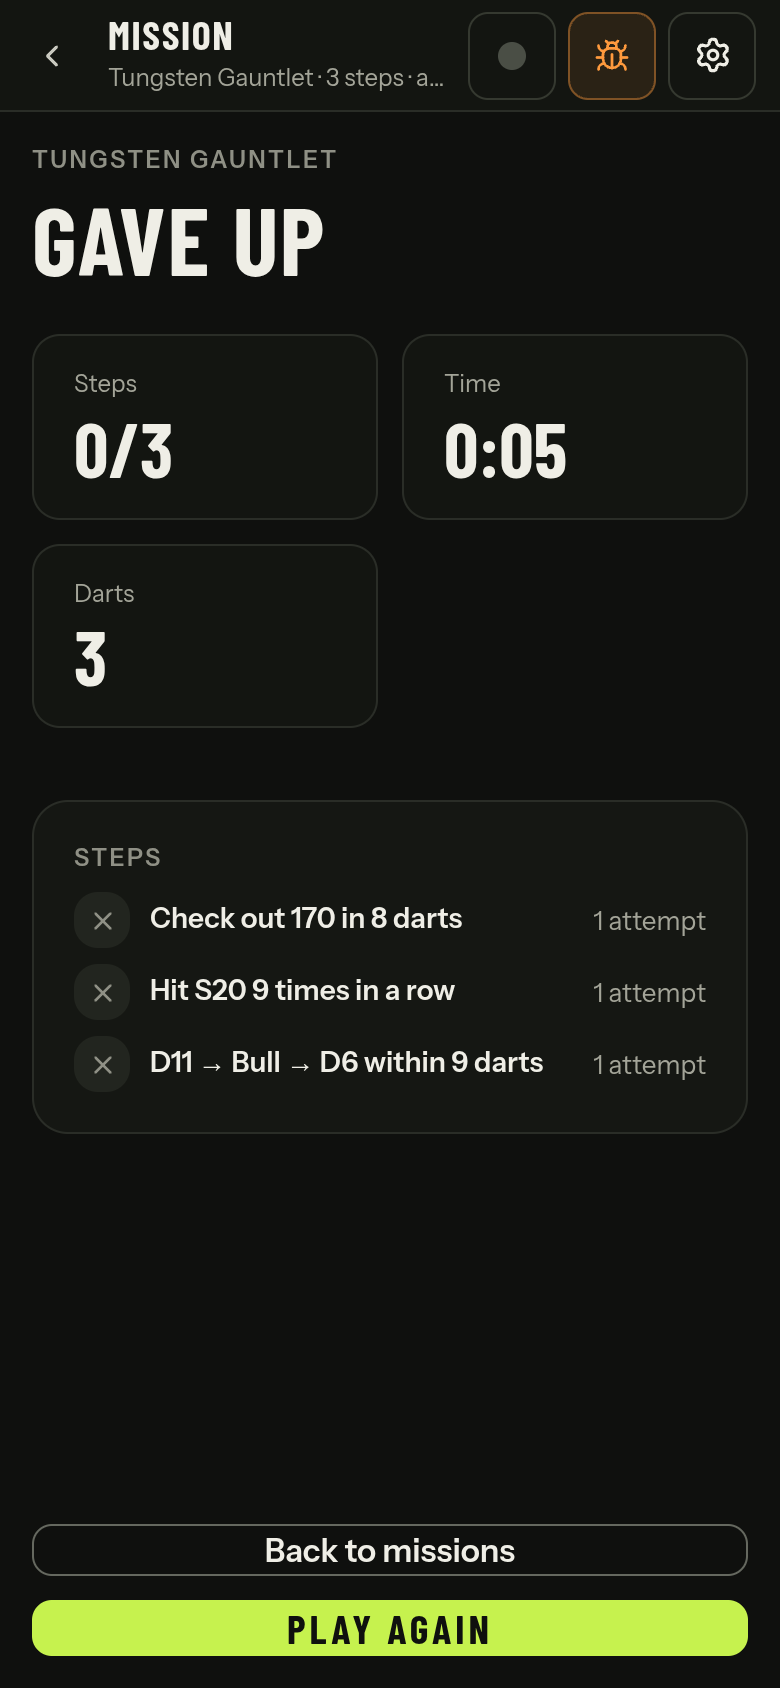
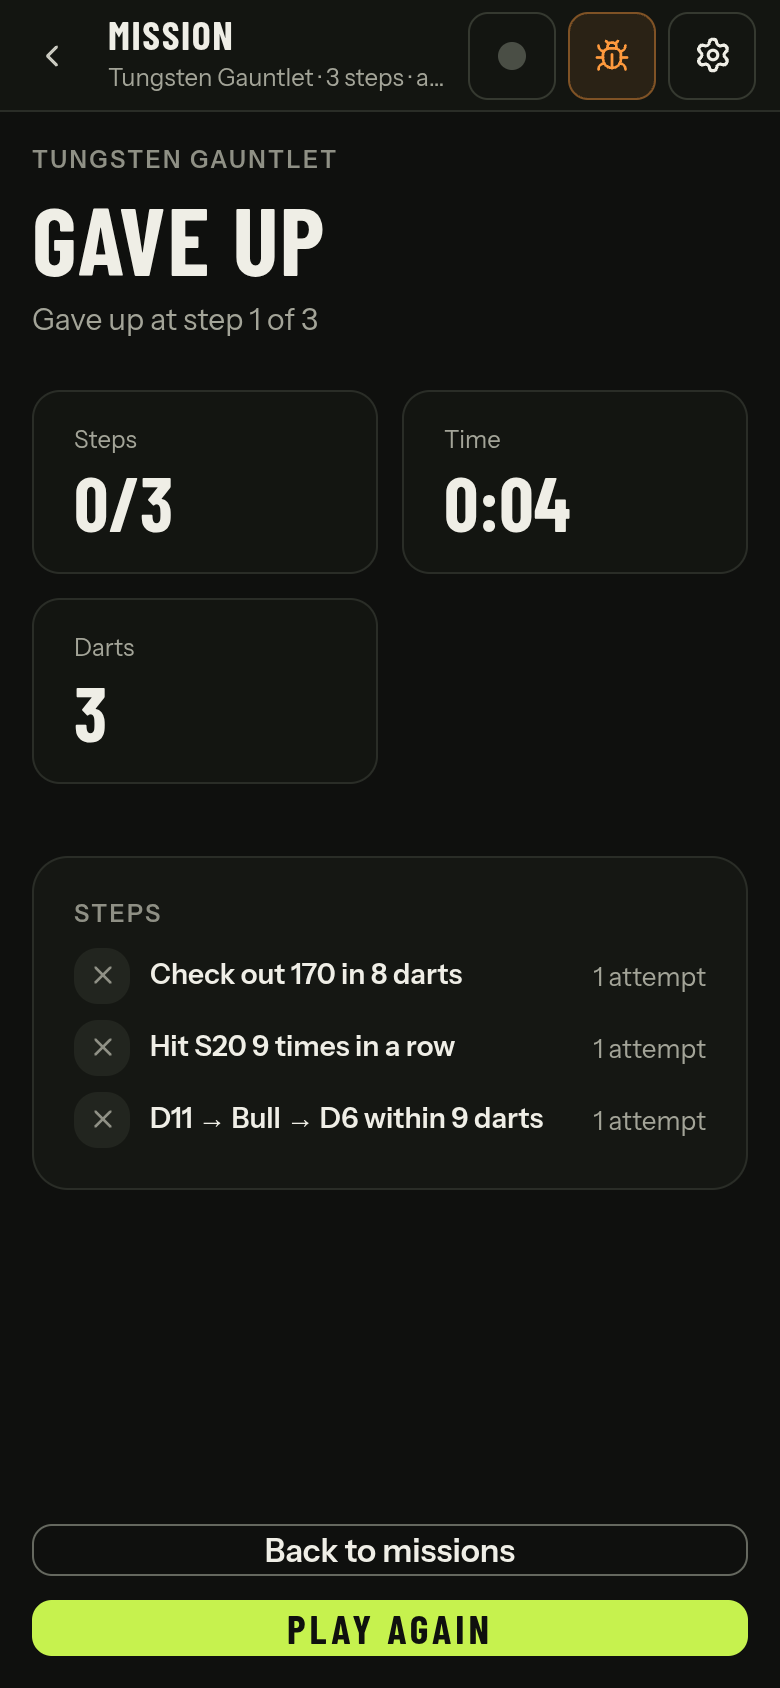
fix(missions): say a mission was tried when no run completed
The cards only knew completed runs, so a mission played and failed
still said Not tried. Each card now carries tries, the viewer's
finished games of it (test runs left out), and says Not completed with
Tried 2× until a run completes. The result of a failed run says where
it ended: Time ran out at step 2 of 3.

diff --git a/backend/frontend/src/lib/missions/view.ts b/backend/frontend/src/lib/missions/view.ts
@@ -78,12 +78,17 @@ export const authorLabel = (card: Pick<MissionCard, 'author' | 'official'>, view
 export const authorName = (card: Pick<MissionCard, 'author' | 'official'>): string =>
   card.official ? 'Dartcade' : (card.author?.name ?? 'Player')
 
-/** The card's Your best and Friends' best: a mission of your own you never finished shows a dash, not "Not tried". */
-export function bests(card: MissionCard, viewerId: string | null): { yours: string; friends: string } {
+/**
+ * The card's Your best and Friends' best. Without a completed run Your best says whether you tried
+ * (`tried`: how often); a mission of your own you never played shows a dash, not "Not tried".
+ */
+export function bests(card: MissionCard, viewerId: string | null): { yours: string; tried: string | null; friends: string } {
   const rankBy = card.mission.rankBy
   const own = card.author?.id === viewerId
+  const untried = own ? '—' : 'Not tried'
   return {
-    yours: card.yourBest ? bestValue(rankBy, card.yourBest) : own ? '—' : 'Not tried',
+    yours: card.yourBest ? bestValue(rankBy, card.yourBest) : card.tries > 0 ? 'Not completed' : untried,
+    tried: !card.yourBest && card.tries > 0 ? `Tried ${card.tries}×` : null,
     friends: card.friendsBest ? bestValue(rankBy, card.friendsBest) : '—',
   }
 }
@@ -216,6 +221,13 @@ export function runLine(game: Pick<MissionGame, 'mission'>, run: MissionRun): st
 // ── The result ────────────────────────────────────────────────────────────
 
 export type ResultRow = { seat: number; name: string; place: number | null; steps: string; time: string; darts: number; outcome: string }
+
+/** What happened to a run that did not complete: "Time ran out at step 2 of 3"; null for one that completed or still plays. */
+export function outcomeLine(game: Pick<MissionGame, 'mission'>, run: Pick<MissionRun, 'status' | 'failure' | 'active'>): string | null {
+  if (run.status !== 'failed') return null
+  const where = `at step ${run.active + 1} of ${game.mission.steps.length}`
+  return run.failure === 'time' ? `Time ran out ${where}` : `Gave up ${where}`
+}
 
 const OUTCOME = { completed: 'Completed', time: 'Time ran out', gave_up: 'Gave up', playing: 'Not finished' } as const
 

diff --git a/backend/src/db/missions.ts b/backend/src/db/missions.ts
@@ -97,6 +97,8 @@ export type MissionCard = MissionRow & {
   yourBest: Best | null
   /** The best of the viewer's friends. */
   friendsBest: Best | null
+  /** The viewer's finished games of it (completed, failed, out of time or given up), test runs left out. */
+  tries: number
 }
 
 const LIST_LIMIT = 100
@@ -129,16 +131,29 @@ export async function listMissions(
 /** Each card's best of the viewer and of the viewer's friends. */
 async function withBests(db: Kysely<Database>, v: MissionViewer, missions: (MissionRow & { plays: number })[]): Promise<MissionCard[]> {
   if (missions.length === 0) return []
-  const bests = await bestsOf(
-    db,
-    missions.map(m => m.id),
-    [v.id, ...v.friendIds],
-  )
+  const ids = missions.map(m => m.id)
+  const [bests, tries] = await Promise.all([bestsOf(db, ids, [v.id, ...v.friendIds]), triesOf(db, ids, v.id)])
   return missions.map(m => {
     const mine = bests.filter(b => b.missionId === m.id)
     const friends = mine.filter(b => b.userId !== v.id).sort((a, b) => compareRuns(m.mission.rankBy, a, b))
-    return { ...m, yourBest: mine.find(b => b.userId === v.id) ?? null, friendsBest: friends[0] ?? null }
+    return { ...m, yourBest: mine.find(b => b.userId === v.id) ?? null, friendsBest: friends[0] ?? null, tries: tries.get(m.id) ?? 0 }
   })
+}
+
+// How often the user finished a game of each mission: the bests keep only completions
+async function triesOf(db: Kysely<Database>, missionIds: string[], userId: string): Promise<Map<string, number>> {
+  const found = await db
+    .selectFrom('game_sessions as g')
+    .innerJoin('game_players as p', 'p.session_id', 'g.id')
+    .select([sql<string>`g.config ->> 'missionId'`.as('missionId'), sql<number>`count(DISTINCT g.id)::int`.as('n')])
+    .where('g.game_id', '=', 'mission')
+    .where('g.status', '=', 'finished')
+    .where(sql<boolean>`g.config ->> 'test' = 'false'`)
+    .where(sql<boolean>`g.config ->> 'missionId' = ANY(${missionIds}::text[])`)
+    .where('p.user_id', '=', userId)
+    .groupBy(sql`g.config ->> 'missionId'`)
+    .execute()
+  return new Map(found.map(r => [r.missionId, r.n]))
 }
 
 async function bestsOf(db: Kysely<Database>, missionIds: string[], userIds: string[]): Promise<(Best & { missionId: string })[]> {

diff --git a/backend/frontend/src/lib/missions/view.test.ts b/backend/frontend/src/lib/missions/view.test.ts
@@ -11,6 +11,7 @@ import {
   fmtClock,
   highscoreRank,
   liveElapsed,
+  outcomeLine,
   personalBest,
   resultRows,
   runLine,
@@ -82,6 +83,7 @@ const card = (o: Partial<MissionCard> = {}): MissionCard => ({
   plays: 3,
   yourBest: null,
   friendsBest: null,
+  tries: 0,
   hidden: null,
   canEdit: false,
   createdAt: '2026-11-20T10:00:00Z',
@@ -102,9 +104,11 @@ describe('the list', () => {
     expect(cardPills(card({ official: true, mission: sprint })).map(p => p.label)).toEqual(['1 step', 'Official'])
   })
 
-  it('bests: a time, darts for a darts race, Not tried, and a dash on your own untried mission', () => {
+  it('bests: a time, darts for a darts race, tried but not completed, Not tried, and a dash on your own untried mission', () => {
     const best = { userId: 'me', name: 'Me', timeMs: 462_000, darts: 38, achievedAt: '2026-11-21T10:00:00Z' }
-    expect(bests(card({ yourBest: best }), 'me')).toEqual({ yours: '7:42', friends: '—' })
+    expect(bests(card({ yourBest: best, tries: 4 }), 'me')).toEqual({ yours: '7:42', tried: null, friends: '—' })
+    expect(bests(card({ tries: 2 }), 'me')).toEqual({ yours: 'Not completed', tried: 'Tried 2×', friends: '—' })
+    expect(bests(card({ tries: 1, author: { id: 'me', name: 'Me' } }), 'me').yours).toBe('Not completed')
     expect(bests(card({ yourBest: best, mission: { ...mission, rankBy: 'darts' } }), 'me').yours).toBe('38 darts')
     expect(bests(card(), 'me').yours).toBe('Not tried')
     expect(bests(card({ author: { id: 'me', name: 'Me' } }), 'me').yours).toBe('—')
@@ -179,6 +183,12 @@ describe('the play screen', () => {
 })
 
 describe('the result', () => {
+  it('says where a run that did not complete ended', () => {
+    expect(outcomeLine({ mission }, playing({ status: 'failed', failure: 'time', active: 1 }))).toBe('Time ran out at step 2 of 3')
+    expect(outcomeLine({ mission }, playing({ status: 'failed', failure: 'gave_up', active: 0 }))).toBe('Gave up at step 1 of 3')
+    expect(outcomeLine({ mission }, playing({ status: 'completed' }))).toBeNull()
+  })
+
   it('rows by place, each with its outcome', () => {
     const game = {
       mission,

diff --git a/backend/src/api/missions.test.ts b/backend/src/api/missions.test.ts
@@ -396,4 +396,53 @@ describe.skipIf(!process.env.TEST_DATABASE_URL)('missions API', { timeout: 30_00
     const card = (await call('GET', `/api/missions/${id}`, 'owner')).json()
     expect(card).toMatchObject({ yourBest: null, friendsBest: { name: 'Fred', darts: 30 } })
   })
+
+  it("counts the viewer's finished games of a mission as tries, completed or not; never a test run, an unfinished game or someone else's", async () => {
+    const id = await own('public')
+    const games: [string, string, 'finished' | 'active', boolean][] = [
+      ['t1', 'stranger', 'finished', false],
+      ['t2', 'stranger', 'finished', false],
+      ['t3', 'stranger', 'active', false],
+      ['t4', 'stranger', 'finished', true],
+      ['t5', 'friend', 'finished', false],
+    ]
+    for (const [gid, user, status, test] of games) {
+      await db
+        .insertInto('game_sessions')
+        .values({
+          id: gid,
+          game_id: 'mission',
+          owner_user_id: user,
+          config: JSON.stringify({ missionId: id, test }),
+          status,
+          finished_at: status === 'finished' ? new Date() : null,
+        })
+        .execute()
+      await db
+        .insertInto('game_players')
+        .values({
+          session_id: gid,
+          seat: 0,
+          name: user,
+          user_id: user,
+          placement: 1,
+          stats: '{}',
+          controller_user_id: user,
+          board_db_id: null,
+        })
+        .execute()
+    }
+    const card = (await call('GET', `/api/missions/${id}`, 'stranger')).json()
+    expect(card).toMatchObject({ yourBest: null, tries: 2 })
+    const list = (await call('GET', '/api/missions?filter=all', 'owner')).json()
+    expect(list.missions.find((m: { id: string }) => m.id === id)).toMatchObject({ tries: 0 })
+    await db
+      .deleteFrom('game_sessions')
+      .where(
+        'id',
+        'in',
+        games.map(g => g[0]),
+      )
+      .execute()
+  })
 })

diff --git a/backend/frontend/src/lib/components/missions/MissionCard.svelte b/backend/frontend/src/lib/components/missions/MissionCard.svelte
@@ -116,7 +116,7 @@
     {@render pills()}
     {@render hiddenNote()}
     <div class="flex items-center gap-2 text-small text-text-muted">
-      <span>Your best <b class="font-display text-body-lg text-text">{best.yours}</b></span>
+      <span>Your best <b class="font-display text-body-lg text-text">{best.tried ?? best.yours}</b></span>
       <span class="ml-auto">Friends’ best <b class="font-display text-body-lg text-text">{best.friends}</b></span>
       <ChevronRight size={16} class="text-text-dim" aria-hidden="true" />
     </div>
@@ -141,7 +141,8 @@
     </ol>
     <div class="mt-auto flex items-center gap-2.5 border-t border-surface-paused pt-2.5">
       <span class="flex flex-1 flex-col"
-        ><span class="text-caption text-text-muted">Your best</span><span class="font-display text-lead font-bold">{best.yours}</span></span
+        ><span class="text-caption text-text-muted">Your best</span><span class="font-display text-lead font-bold">{best.yours}</span
+        >{#if best.tried}<span class="text-caption text-text-muted">{best.tried}</span>{/if}</span
       >
       <span class="flex flex-1 flex-col"
         ><span class="text-caption text-text-muted">Friends’ best</span><span class="font-display text-lead font-bold">{best.friends}</span

diff --git a/backend/frontend/src/lib/components/missions/MissionResult.svelte b/backend/frontend/src/lib/components/missions/MissionResult.svelte
@@ -16,7 +16,7 @@
   import { ordinal, plural } from '$lib/fmt'
   import type { Who } from '$lib/face'
   import { stepTitle } from '$shared/missions/describe'
-  import { fmtClock, highscoreRank, personalBest, resultRows } from '$lib/missions/view'
+  import { fmtClock, highscoreRank, outcomeLine, personalBest, resultRows } from '$lib/missions/view'
 
   type Action = { label: string; onclick: () => void }
   let {
@@ -74,6 +74,7 @@
           ? 'Gave up'
           : 'Mission over',
   )
+  const outcome = $derived(outcomeLine(game, run))
   const time = $derived(fmtClock(run.timeMs ?? 0))
   const newBest = $derived(own && viewerId !== null && personalBest(game, run, viewerId))
   const rank = $derived(highscoreRank(game, run))
@@ -92,6 +93,7 @@
     <h1 class="type-page-title font-bold leading-none md:text-glyph {run.status === 'completed' ? 'text-accent' : 'text-text'}">
       {headline}
     </h1>
+    {#if outcome}<p class="text-body text-text-muted">{outcome}</p>{/if}
     <div class="flex flex-wrap gap-2">
       {#if newBest}<span class="rounded-full bg-accent px-2.5 py-1 text-caption font-bold uppercase tracking-wide text-accent-fg"
           >New personal best</span

diff --git a/e2e/screenshots/37-missions.spec.ts b/e2e/screenshots/37-missions.spec.ts
@@ -65,7 +65,8 @@ async function artboardCards(page: Page): Promise<Card[]> {
     },
     { ...by('Around the Clock Sprint'), yourBest: best(600_000, 38), friendsBest: best(540_000, 31) },
     { ...by('Shanghai Night'), ...author('u-tom', 'Tom'), id: 'm-shanghai', canEdit: false, yourBest: null, friendsBest: best(860_000) },
-  ]
+    // Ton Machine: tried twice, never completed
+  ].map(c => ({ ...c, tries: c.id === 'm-ton' ? 2 : 0 }))
 }
 
 async function mockList(page: Page, cards: Card[]): Promise<void> {
@@ -234,6 +235,7 @@ test('give up', async ({ browser }) => {
   await shot(page, 'missions/give-up-phone.png')
   await page.getByRole('dialog').getByRole('button', { name: 'Give up' }).click()
   await expect(page.getByRole('heading', { name: 'Gave up' })).toBeVisible()
+  await expect(page.getByText('Gave up at step 1 of')).toBeVisible()
   await shot(page, 'missions/result-gave-up-phone.png')
   await ctx.close()
 })

diff --git a/backend/frontend/src/lib/components/missions/MissionDetailDialog.svelte b/backend/frontend/src/lib/components/missions/MissionDetailDialog.svelte
@@ -58,7 +58,7 @@
   <div class="grid grid-cols-2 gap-3 border-t border-surface-paused pt-3">
     <span class="flex flex-col"
       ><span class="text-caption text-text-muted">Your best</span><span class="font-display text-player-name font-bold">{best.yours}</span
-      ></span
+      >{#if best.tried}<span class="text-caption text-text-muted">{best.tried}</span>{/if}</span
     >
     <span class="flex flex-col"
       ><span class="text-caption text-text-muted">Friends’ best</span><span class="font-display text-player-name font-bold"

diff --git a/backend/frontend/src/lib/api/schema.ts b/backend/frontend/src/lib/api/schema.ts
@@ -7445,6 +7445,8 @@ export interface components {
             plays: number;
             yourBest: components["schemas"]["MissionBest"] | (null);
             friendsBest: components["schemas"]["MissionBest"] | (null);
+            /** @description The viewer's finished games of it (completed or not), test runs left out */
+            tries: number;
             /** @description A moderator hid it (shown to its author and moderators only) */
             hidden: {
                 /** Format: date-time */

diff --git a/backend/src/schema/api.ts b/backend/src/schema/api.ts
@@ -7445,6 +7445,8 @@ export interface components {
             plays: number;
             yourBest: components["schemas"]["MissionBest"] | (null);
             friendsBest: components["schemas"]["MissionBest"] | (null);
+            /** @description The viewer's finished games of it (completed or not), test runs left out */
+            tries: number;
             /** @description A moderator hid it (shown to its author and moderators only) */
             hidden: {
                 /** Format: date-time */

diff --git a/backend/src/api/missions.ts b/backend/src/api/missions.ts
@@ -98,6 +98,7 @@ const toCard = (c: MissionCard, v: MissionViewer) => ({
   plays: c.plays,
   yourBest: toBest(c.yourBest),
   friendsBest: toBest(c.friendsBest),
+  tries: c.tries,
   hidden: c.hiddenAt ? { at: c.hiddenAt.toISOString(), reason: c.hiddenReason ?? '' } : null,
   canEdit: canWrite(c, v),
   createdAt: c.createdAt.toISOString(),
